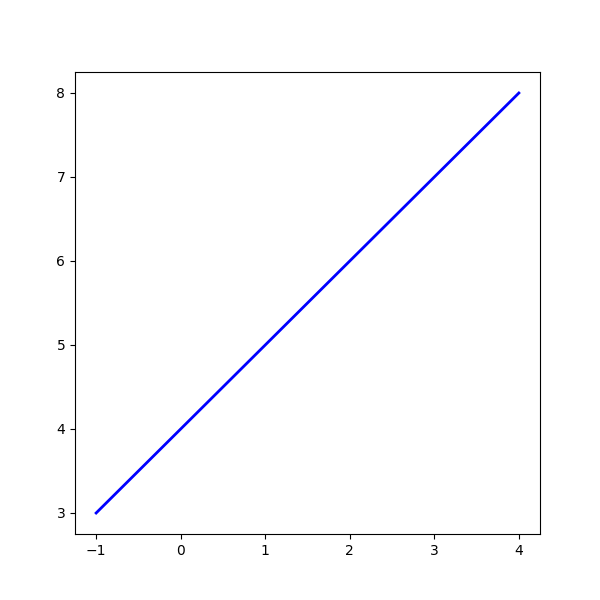
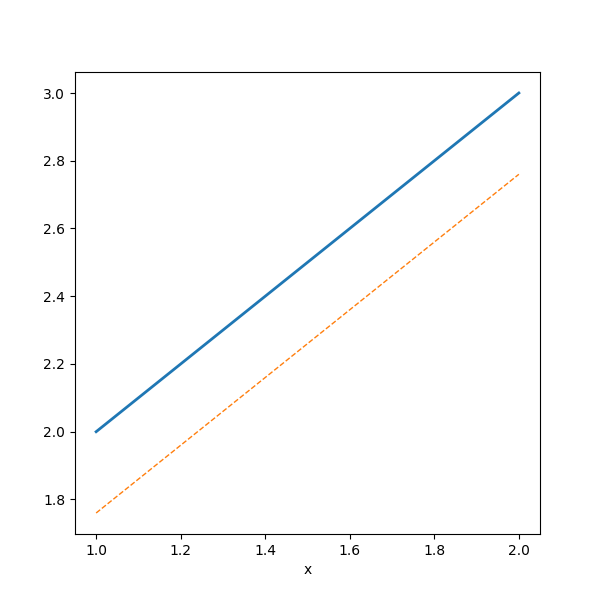
Add more lines to plot

diff --git a/calcs/templates/graph.html b/calcs/templates/graph.html
@@ -5,13 +5,48 @@
 <div>
 <fieldset>
     <legend>Enter figure parameters</legend>
-    <form id="graph" method="POST" action="/graph_request">
+    <form id="graph" method="POST" action="./">
         {{ form.csrf_token }}
-    <p>{{ form.expression.label }} {{ form.expression() }}</p>
-    <p>
-        {{ form.xmin.label }} {{ form.xmin() }}
-        {{ form.xmax.label }} {{ form.xmax() }}
-    </p>
+        <p>{{ form.expression1.label }} {{ form.expression1() }}</p>
+        <p>
+            {{ form.xmin1.label }} {{ form.xmin1() }}
+            {{ form.xmax1.label }} {{ form.xmax1() }}
+        </p>
+        <p> {{ form.label1.label }}{{ form.label1() }}
+            {{ form.linecolor1.label }} {{ form.linecolor1() }}
+            {{ form.linewidth1.label }} {{ form.linewidth1() }}
+            {{ form.linestyle1.label }} {{ form.linestyle1() }}
+        </p>
+        <br>
+
+        <p>{{ form.expression2.label }} {{ form.expression2() }}</p>
+        <p>
+            {{ form.xmin2.label }} {{ form.xmin2() }}
+            {{ form.xmax2.label }} {{ form.xmax2() }}
+        </p>
+        <p>
+            {{ form.label2.label }}{{ form.label2() }}
+            {{ form.linecolor2.label }} {{ form.linecolor2() }}
+            {{ form.linewidth2.label }} {{ form.linewidth2() }}
+            {{ form.linestyle2.label }} {{ form.linestyle2() }}
+        </p>
+        <br>
+        <p>
+            {{ form.expression3.label }} {{ form.expression3() }}
+        </p>
+        <p>
+            {{ form.xmin3.label }} {{ form.xmin3() }}
+            {{ form.xmax3.label }} {{ form.xmax3() }}
+        </p>
+        <p>
+            {{ form.label3.label }}{{ form.label3() }}
+            {{ form.linecolor3.label }} {{ form.linecolor3() }}
+            {{ form.linewidth3.label }} {{ form.linewidth3() }}
+            {{ form.linestyle3.label }} {{ form.linestyle3() }}
+        </p>
+
+
+
     <p>Options (Optional)</p>
     <table>
         <tr>
@@ -24,15 +59,15 @@
         </tr>
         <tr>
             <td> {{ form.xlabel.label }} {{ form.xlabel() }}</td>
-            <td> {{ form.linecolor.label }} {{ form.linecolor() }} </td>
+            <td>  </td>
         </tr>
         <tr>
             <td> {{ form.ylabel.label }} {{ form.ylabel() }}</td>
-            <td> {{ form.linewidth.label }} {{ form.linewidth() }}</td>
+            <td> </td>
         </tr>
         <tr>
             <td> </td>
-            <td> {{ form.linestyle.label }} {{ form.linestyle() }} </td>
+            <td>  </td>
         </tr>
     </table>
     <p text-align="center;"></p>

diff --git a/calcs/views/forms.py b/calcs/views/forms.py
@@ -26,16 +26,13 @@ class ComputeForm(FlaskForm):
 
 
 class GraphingForm(FlaskForm):
-    expression = StringField('f(x)=',
+    expression1 = StringField('f(x)=',
                              validators=[validators.Length(min=1, max=100)],
                              render_kw={'style': 'width:80%;'})
-    xmin = FloatField('From x=', [validators.Length(min=6, max=35)])
-    xmax = FloatField('To x=', [validators.Length(min=6, max=35)])
-    title = StringField('Title')
-    xlabel = StringField('x label')
-    ylabel = StringField('y label')
-    isgrid = BooleanField(false_values=False)
-    linecolor = SelectField('Line color', choices=[
+    xmin1 = FloatField('From x=', [validators.Length(min=6, max=35)])
+    xmax1 = FloatField('To x=', [validators.Length(min=6, max=35)])
+    label1 = StringField('Label')
+    linecolor1 = SelectField('Line color', choices=[
         ('b', 'Blue'),
         ('g', 'Green'),
         ('r', 'Red'),
@@ -45,15 +42,95 @@ class GraphingForm(FlaskForm):
         ('k', 'Black'),
         ('w', 'White')
     ])
-    linewidth = FloatField('Line width',
+    linewidth1 = FloatField('Line width',
                            default=2.0,
                            validators=[validators.NumberRange(min=0.0,
                                                               message='Line width must be positive')])
 
-    linestyle = SelectField('Line style', default='-', choices=[
+    linestyle1 = SelectField('Line style', default='-', choices=[
         ('-', 'Solid'),
         ('--', 'Dashed'),
         ('-.', 'Dashed-dot'),
         ('.', 'Dotted')
     ])
+
+    expression2 = StringField('f(x)=',
+                              validators=[validators.Length(min=1, max=100)],
+                              render_kw={'style': 'width:80%;'})
+    xmin2 = FloatField('From x=', [validators.Length(min=6, max=35)])
+    xmax2 = FloatField('To x=', [validators.Length(min=6, max=35)])
+    label2 = StringField('Label')
+    linecolor2 = SelectField('Line color', choices=[
+        ('b', 'Blue'),
+        ('g', 'Green'),
+        ('r', 'Red'),
+        ('c', 'Cyan'),
+        ('m', 'Magenta'),
+        ('y', 'Yellow'),
+        ('k', 'Black'),
+        ('w', 'White')
+    ])
+    linewidth2 = FloatField('Line width',
+                           default=2.0,
+                           validators=[validators.NumberRange(min=0.0,
+                                                              message='Line width must be positive')])
+
+    linestyle2 = SelectField('Line style', default='-', choices=[
+        ('-', 'Solid'),
+        ('--', 'Dashed'),
+        ('-.', 'Dashed-dot'),
+        ('.', 'Dotted')
+    ])
+
+    expression3 = StringField('f(x)=',
+                              validators=[validators.Length(min=1, max=100)],
+                              render_kw={'style': 'width:80%;'})
+    xmin3 = FloatField('From x=', [validators.Length(min=6, max=35)])
+    xmax3 = FloatField('To x=', [validators.Length(min=6, max=35)])
+    label3 = StringField('Label')
+    linecolor3 = SelectField('Line color', choices=[
+        ('b', 'Blue'),
+        ('g', 'Green'),
+        ('r', 'Red'),
+        ('c', 'Cyan'),
+        ('m', 'Magenta'),
+        ('y', 'Yellow'),
+        ('k', 'Black'),
+        ('w', 'White')
+    ])
+    linewidth3 = FloatField('Line width',
+                           default=2.0,
+                           validators=[validators.NumberRange(min=0.0,
+                                                              message='Line width must be positive')])
+
+    linestyle3 = SelectField('Line style', default='-', choices=[
+        ('-', 'Solid'),
+        ('--', 'Dashed'),
+        ('-.', 'Dashed-dot'),
+        ('.', 'Dotted')
+    ])
+
+    title = StringField('Title')
+    xlabel = StringField('x label')
+    ylabel = StringField('y label')
+    isgrid = BooleanField(false_values=False)
     submit = SubmitField()
+
+    def validate(self):
+        if not FlaskForm.validate(self):
+            return False
+
+        # check that xmin < xmax
+        def get_attr(name):
+            attr = getattr(self, name)
+            return attr.data
+
+        for i in range(1, 4):
+            if get_attr(f'xmin{i}') is None and get_attr(f'xmax{i}') is None:
+                continue
+            elif get_attr(f'xmin{i}') is None or get_attr(f'xmax{i}') is None:
+                return False
+            elif get_attr(f'xmin{i}') > get_attr(f'xmax{i}'):
+                return False
+
+        return True

diff --git a/calcs/views/graphing_setting.py b/calcs/views/graphing_setting.py
@@ -1,11 +1,38 @@
 from decimal import Decimal
+import os
 
 from matplotlib import pyplot as plt
 import numpy as np
+from uuid import uuid4
 
 from views.exceptions import *
 from views.convert_to_rpn import rpn
 from views.implement_rpn import compute_rpn
+
+
+def create_plot(raw_data, filepath):
+    figsize = [6, 6]
+    try:
+        figsize[0] = float(raw_data.get('figsize_x', 6))
+    except (TypeError, ValueError, OverflowError):
+        pass
+
+    try:
+        figsize[1] = float(raw_data.get('figsize_y', 6))
+    except (TypeError, ValueError, OverflowError):
+        pass
+
+    warnings = list()
+    fig, ax = plt.subplots(figsize=tuple(figsize))
+    axes = SettingAxes(fig, ax, raw_data)
+    warnings += axes.warnings
+
+    lines = SettingLine(fig, ax, raw_data)
+    warnings += lines.warnings
+
+    filename = os.getcwd() + filepath + 'plot' + '.png'
+    plt.savefig(filename)
+    return filename
 
 
 class SettingAxes:
@@ -16,11 +43,11 @@ class SettingAxes:
         'ylabel': None
     }
 
-    def __init__(self, fig, ax, row_data, settings={}):
+    def __init__(self, fig, ax, raw_data, settings={}):
         self.fig = fig
         self.ax = ax
         self.default.update(settings)
-        self.row_data = row_data
+        self.raw_data = raw_data
         self.warnings = list()
         self.plot_xlabel()
         self.plot_ylabel()
@@ -34,7 +61,7 @@ class SettingAxes:
         if self.raw_data.get('ylabel', None) is not None:
             self.ax.set_ylabel(self.raw_data['ylabel'])
 
-    def plot_title(self, fig):
+    def plot_title(self):
         if self.raw_data.get('title', None) is None:
             self.fig.suptitle(self.raw_data['title'])
 
@@ -57,24 +84,28 @@ class SettingLine:
         self.raw_data = raw_data
         self.default.update(settings)
         self.warnings = list()
-        x_vals, y_vals = self.get_coords()
-        linewidth = self.get_linewidth()
-        style = self.get_linewidth()
-        self.ax.plot(x_vals, y_vals, linewidth=linewidth, style=style)
+        for i in range(1, 4):
+            try:
+                x_vals, y_vals = self.get_coords(i)
+            except:
+                break
+            linewidth = self.get_linewidth(i)
+            linestyle = self.get_linestyle(i)
+            self.ax.plot(x_vals, y_vals, linewidth=linewidth, linestyle=linestyle)
 
-    def get_linewidth(self):
+    def get_linewidth(self, i: int):
         try:
-            linewidth = float(self.raw_data.get('linewidth', None))
+            linewidth = float(self.raw_data.get(f'linewidth{i}', None))
         except (TypeError, ValueError, OverflowError):
-            linewidth = self.default['linewidth']
+            linewidth = self.default[f'linewidth{i}']
 
         if linewidth <= 0:
             self.warnings.append(f'The linewidth is not positive: {linewidth}. Resetting to the default value {self.default["linewidth"]}')
             linewidth = 2.0
         return linewidth
 
-    def get_linestyle(self):
-        style = self.raw_data['linestyle']
+    def get_linestyle(self, i: int):
+        style = self.raw_data[f'linestyle{i}']
         if style not in ['-', '--', '-.', '.']:
             self.warnings.append(f'Linestyle: incorrect entry: {style}')
             return self.default['style']
@@ -82,12 +113,15 @@ class SettingLine:
         else:
             return style
 
-    def get_coords(self):
+    def get_coords(self, i: int):
+        s = self.raw_data[f'expression{i}']
+        if not s:
+            raise
+
         # covert the function to the array of values
-        x_min = float(self.raw_data['xmin'])
-        x_max = float(self.raw_data['xmax'])
-        s = self.raw_data['expression']
-        n_points = int(self.raw_data.get('n_points', self.default['n_points']))
+        x_min = float(self.raw_data[f'xmin{i}'])
+        x_max = float(self.raw_data[f'xmax{i}'])
+        n_points = int(self.raw_data.get(f'n_points{i}', self.default['n_points']))
         assert x_min < x_max  # TODO: add to validators
         s = rpn(s, function=True)
 

diff --git a/calcs/views/graphing.py b/calcs/views/graphing.py
@@ -14,7 +14,7 @@ from views.parameters import *
 from views.exceptions import *
 from views.convert_to_rpn import rpn
 from views.implement_rpn import compute_rpn
-from views.graphing_setting import SettingAxes, SettingLine
+from views.graphing_setting import create_plot
 
 filepath = '/media/'
 
@@ -42,32 +42,8 @@ def implementable_function(s: str):
 
 
 def plot_function(raw_data={}):
-    # fig = plt.figure()
-    # create initial plot figure
-    figsize_x = raw_data.get('figsize_x', 6)
-    figsize_y = raw_data.get('figsize_y', 6)
-    figsize = (6, 6)
-    try:
-        figsize_x = float(figsize_x)
-    except (ValueError, OverflowError):
-        pass
-    else:
-        figsize[0] = figsize_x
-
-    try:
-        figsize_y = float(figsize_y)
-    except (TypeError, ValueError, OverflowError):
-        pass
-    else:
-        figsize[1] = figsize_y
-
-    fig, ax = plt.subplots(figsize=figsize)
-    SettingAxes(fig, ax, raw_data)
-    SettingLine.plot(fig, ax, raw_data)
-    #plt.plot(xvals, func_val, color=params['linecolor'])
-
-    plt.savefig(os.getcwd() + filepath + 'plot.png')
-    # plt.show()
+    filename = create_plot(raw_data, filepath)
+    return filename
 
 
 

diff --git a/calcs/main.py b/calcs/main.py
@@ -71,20 +71,18 @@ def schedule_calculation():
 
 @app.route('/graph_request', methods=['GET', 'POST'])
 def graph_request():
-    expression = request.args.get('expression')
-    # add try-except
-    xmin = float(request.args.get('xmin'))
-    xmax = float(request.args.get('xmax'))
-
-    filename = 'plot.png'
-    plot_function(expression, xmin, xmax, raw_data=request.args)
-    print(os.getcwd() + '/media/' + filename)
-    return send_file(os.getcwd() + '/media/' + filename, as_attachment=False)
+    filename = plot_function(raw_data=request.args)
+    return send_file(filename, as_attachment=False)
 
 
-@app.route('/graph')
+@app.route('/graph', methods=['GET', 'POST'])
 def graph():
-    return render_template('graph.html', form=GraphingForm())
+    if request.method == 'GET':
+        return render_template('graph.html', form=GraphingForm())
+
+    else:
+        filename = plot_function(raw_data=request.args)
+        return send_file(filename, as_attachment=False)
 
 
 @app.route('/settings')

diff --git a/calcs/views/tasks.py b/calcs/views/tasks.py
@@ -1,4 +1,4 @@
-from celery_instance import shared_task
+from celery import shared_task
 
 
 @shared_task
